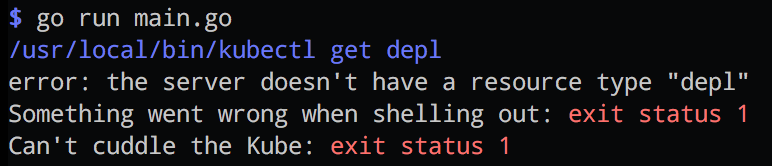
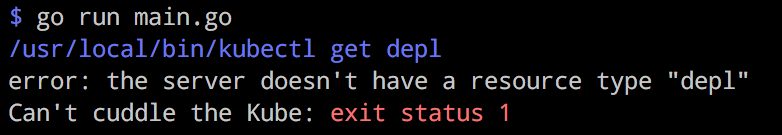
updates shelling error case handling and docs

Changed region(s): [[0.0, 0.0296, 0.9948, 0.9481]]

diff --git a/pkg.go b/pkg.go
@@ -50,9 +50,6 @@ func shellout(withstderr, verbose bool, cmd string, args ...string) (result stri
 	c.Stdout = &out
 	err = c.Run()
 	if err != nil {
-		if verbose {
-			perr("Something went wrong when shelling out", err)
-		}
 		return "", err
 	}
 	result = strings.TrimSpace(out.String())
